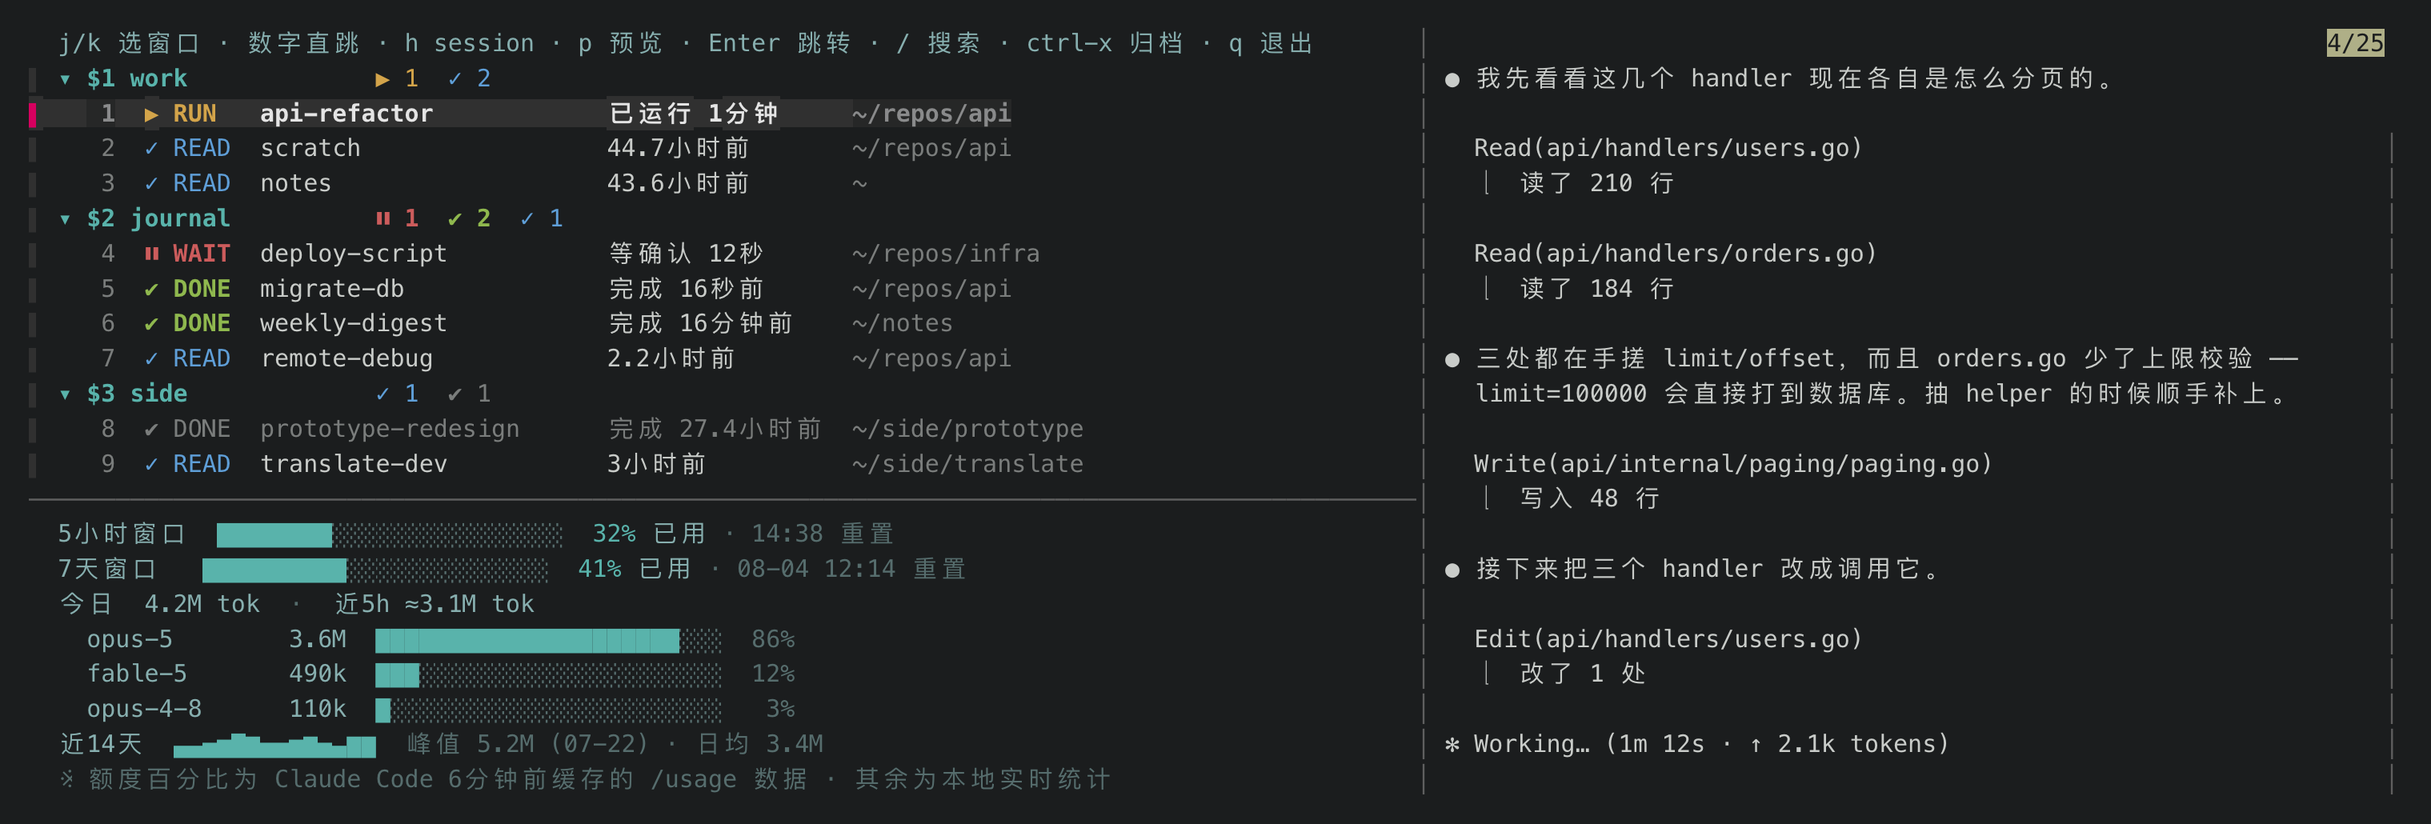
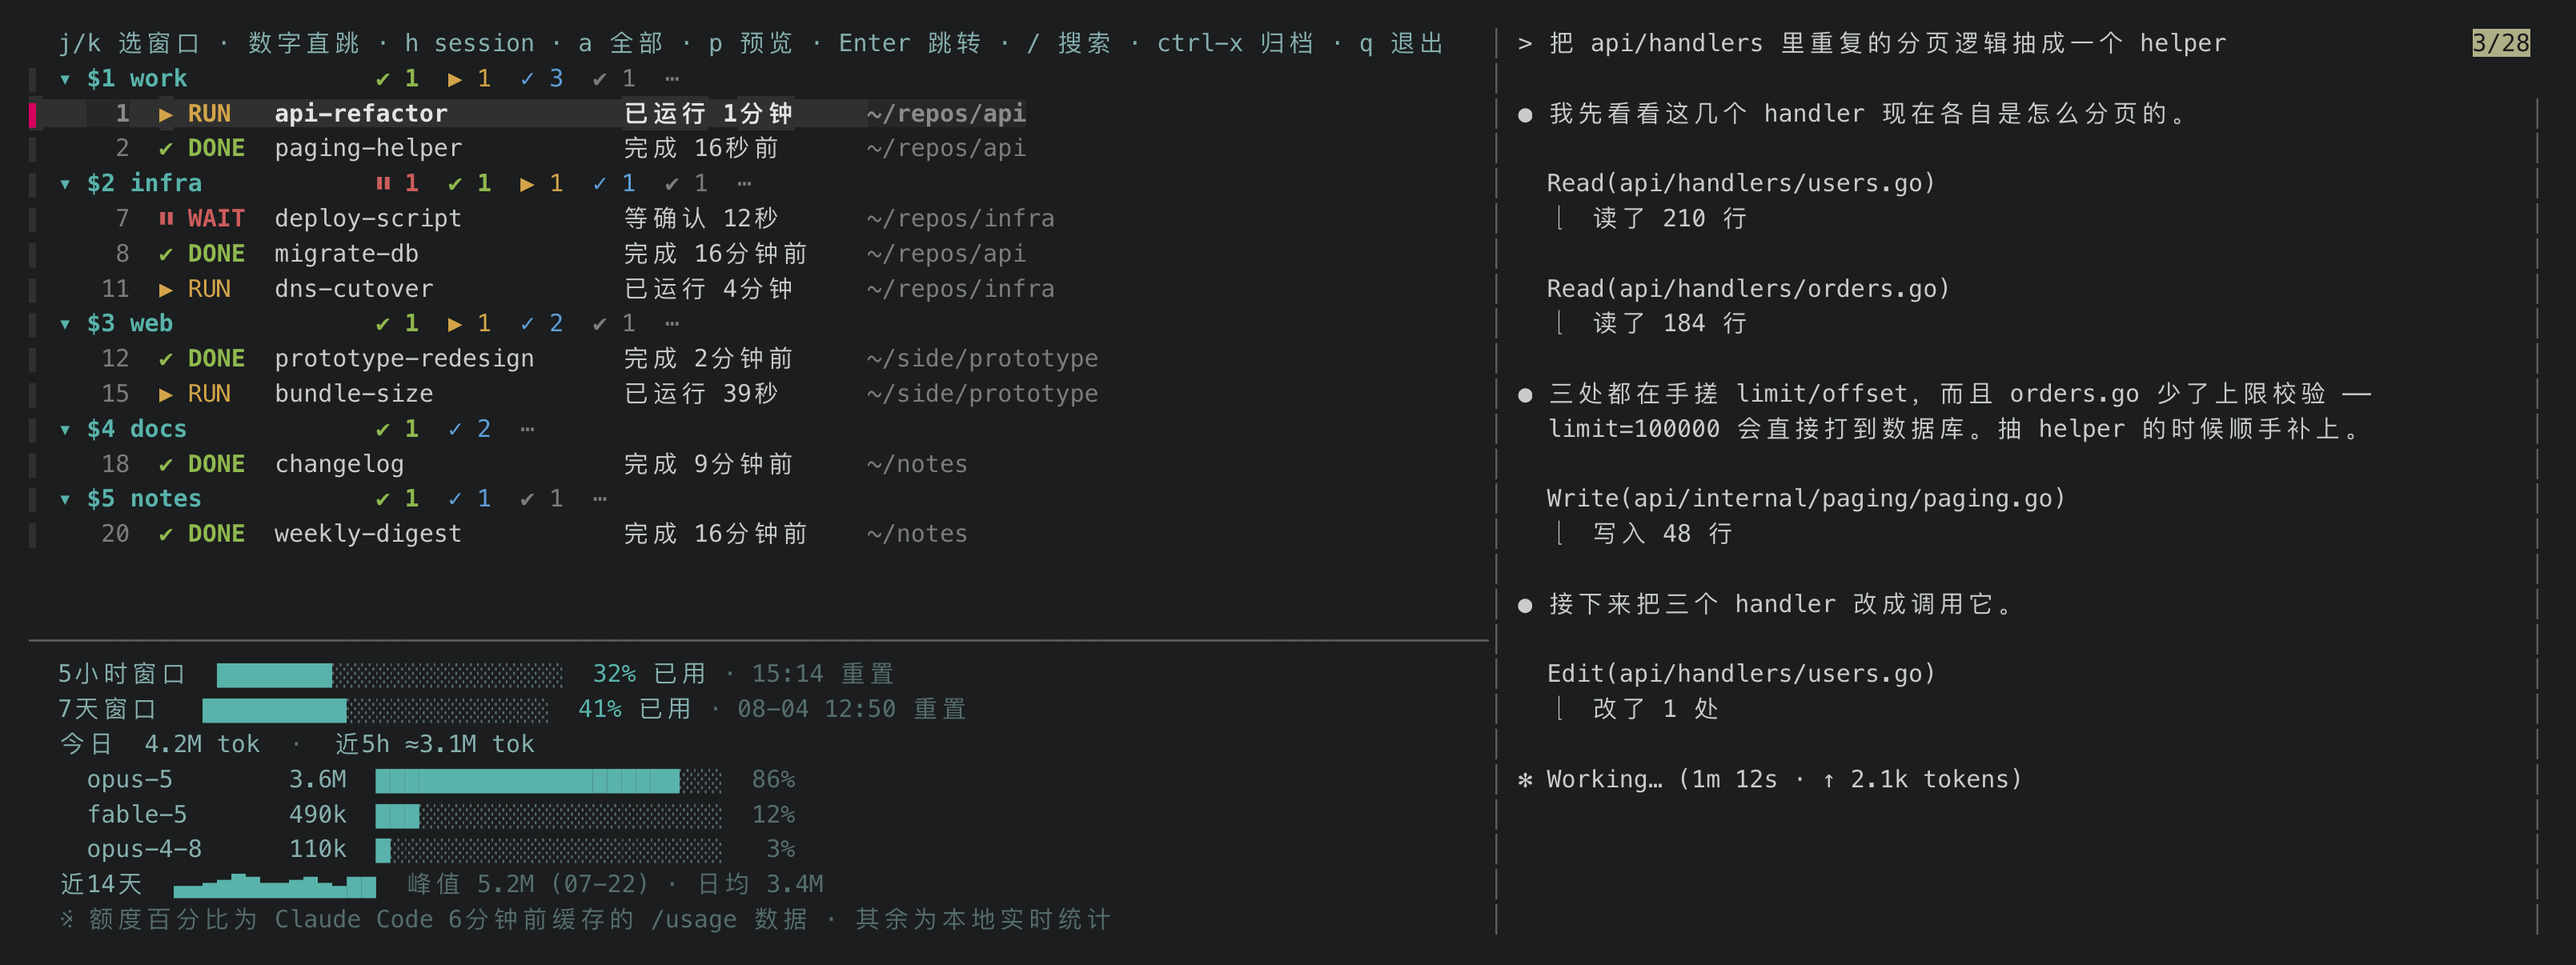
Collapse the quiet panes, so the list scales past a screenful
At 24 tracked panes the picker stops being a list you scan and becomes a list
you search, and the target is 100. But the fix isn't paging or filtering — it's
that most of those rows were never asking for anything. Two ranks already
encode exactly that: READ (you've looked) and aged-out unread DONE (you haven't
looked in hours, so it isn't urgent). Those collapse by default. WAIT, RUN and
unread DONE never do — they're the point of the tool. In the demo fixture, 22
panes render as 9 rows.

The "how many are hidden" indicator needed no new UI: the ✓ and dim ✔ counts
already in each session header ARE the collapsed ones, so they change meaning
for free. The only new pixel is a trailing dim ⋯ meaning "there's more here".
Sessions whose panes all collapse keep their header, so the fleet still reads
as a shape rather than vanishing.

The load-bearing decision is that row numbers are assigned BEFORE the
visibility test. A number that changed when you pressed `a` would be worse than
having no numbers, so a pane keeps its number and the visible ones go sparse
(1, 2, 7, 8, 11…). That ripples into the digit jump, which was counting "the
Nth pane row" — it now matches what you type against a fourth tab-separated
field carrying the number as plain text (fzf shows only field 1, so the field
is free, and it beats parsing ANSI back out of the rendered row). Two follow-on
cases, both tested: "can this prefix be extended" becomes a prefix search over
[…]

diff --git a/DESIGN.md b/DESIGN.md
@@ -131,8 +131,11 @@ header row per session, followed by its panes.
 - **Panes within a session** are ordered by their tmux `window.pane` index, so
   the picker mirrors the order you see in tmux itself — and it lines up with the
   digit-jump numbers.
-- Each pane row leads with a **dim global number** (1, 2, 3… top to bottom
-  across all sessions) — the number you press to jump. Then the state
+- Each pane row leads with a **dim global number**, three columns wide (100+
+  panes is the design target, and a 2-wide field would both drop the leading
+  digit and shift that row's columns), counted top to bottom across all
+  sessions — the number you press to jump. Collapsed rows keep their numbers, so
+  the visible ones can skip. Then the state
   icon+label, the window name ("what is this one doing" is what you scan for
   first), a **status-aware elapsed phrase** in human units (`已运行 / 等确认 /
   完成 X前` — seconds under a minute, then minutes, then hours; `updated_at` is
@@ -142,6 +145,29 @@ header row per session, followed by its panes.
 - **Session headers** carry the same icon+colour counts as the rows below them
   (`⏸ N`, `✔ N`, `▶ N`, `✓ N`, dim `✔` = aged-out), most-important-first, zeros
   omitted.
+
+### Collapsing the quiet ones
+
+A dozen panes fit on a screen. Two dozen don't, and a hundred is the stated
+target — so the list has to stay proportional to *what needs you*, not to how
+many sessions exist. The two ranks that are safe to hide are already defined:
+`READ` (rank 3 — you've looked) and aged-out unread `DONE` (rank 4 — you haven't
+looked in hours, so it isn't urgent). Those collapse by default; WAIT, RUN and
+unread DONE are never hidden, because they're the entire point of the tool.
+`a` toggles, `CLAUDE_TMUX_SHOW_ALL=1` changes the default, and the pane you're
+standing in is never collapsed (visiting a pane is what marks it READ, so it
+usually qualifies — and not finding yourself in the list is disorienting).
+
+No new UI was needed for "how many are hidden": those two header counts *are*
+the hidden ones, so they change meaning for free. The only addition is a
+trailing dim `⋯` saying there's more behind this header. A session whose panes
+are all collapsed keeps its header, so a 24-pane fleet reads as a handful of
+session lines plus the few rows that want you.
+
+**Numbers are assigned before the visibility test**, which is the one
+load-bearing decision here: a number that changed when you pressed `a` would
+be worse than no number at all. The cost is that visible numbers go sparse
+(1, 4, 7, 12…), and that ripples into the digit jump — see below.
 
 ### Two cursor modes, one list
 
@@ -165,6 +191,24 @@ key:
   waits: press the next digit to complete it, or Enter to take the parked row.
   A per-instance `PENDING_FILE` holds the digits so far, cleared by any non-digit
   key and once a jump fires.
+
+  Collapsing made this fiddlier, and it's the only part of the feature with real
+  room to be wrong. Numbers are now sparse, so "the Nth pane row" would land on
+  the wrong pane — the digits you type are matched against a **fourth
+  tab-separated field** carrying the row number as plain text (fzf only displays
+  field 1, so the extra field is free, and it beats parsing ANSI back out of the
+  rendered row). "Can this prefix still be extended" likewise stops being
+  `n*10 <= total` and becomes "does any visible number start with these digits
+  and run longer". One consequence needs handling explicitly: a prefix whose own
+  row is collapsed (`1` while only 10-15 are visible) matches nothing, and
+  dropping it there would make 12 unreachable — so an extendable prefix is held
+  even when it has no row to park on.
+
+- **`a` toggles collapsed/expanded** — writes a per-instance `SHOW_ALL_FILE` that
+  `list-rows.sh` reads via `CLAUDE_TMUX_SHOW_ALL_FILE`, then `reload()`s through
+  the same `tee` that keeps the row cache fresh, exactly like `ctrl-x`. The file
+  is created before the first render, so the initial list and every reload agree
+  on one source of truth.
 - **`p` toggles the preview off entirely** (fzf's `toggle-preview`), handing the
   list the full width — which is the right answer to "the list is too cramped",
   because narrowing the split isn't: it was tried at

diff --git a/README.zh-CN.md b/README.zh-CN.md
@@ -20,12 +20,12 @@
 </p>
 
 <p align="center">
-  <img src="docs/picker.png" alt="picker:三个 session、九个 pane,其中一个卡在权限确认上,右侧是高亮 pane 的实时画面" width="960">
+  <img src="docs/picker.png" alt="picker:五个 session 里追踪着 22 个 pane,收起后只剩 9 个要你处理的,其中一个卡在权限确认上,右侧是高亮 pane 的实时画面" width="960">
 </p>
 
 <p align="center">
-  <sub><code>prefix + g</code>。由真实脚本渲染,数据是演示 fixture ——
-  见 <a href="docs/demo/">docs/demo</a>。</sub>
+  <sub><code>prefix + g</code> —— 追踪着 22 个 pane,收起后只剩 9 个要你处理的。
+  由真实脚本渲染,数据是演示 fixture,见 <a href="docs/demo/">docs/demo</a>。</sub>
 </p>
 
 每一行都有编号 —— 按 `5`,直接落到第 5 行。光标默认停在你当前所在的那个 pane,右侧则是
@@ -75,6 +75,10 @@
 - **它是收件箱,不是仪表盘。** 访问过的 `DONE` 会自动标记为 `READ`,`ctrl-x` 可以把不关心的
   归档掉。这两个标记都会在那个 pane **下次真的做了新事情**时自动失效 —— 所以列表能自己
   保持简短,不需要你去维护。
+- **开到几十上百个也装得下。** 安静的那些 —— `READ`,以及几小时都没去看的未读 `DONE` ——
+  **默认收起**,只留下真的要你处理的。session 表头里本来就有它们的计数,所以那些数字顺理
+  成章变成"这里收了几个",后面跟一个 `⋯` 提示还有东西。按 `a` 全部展开。行号是在收起
+  **之前**就分配好的,所以切换显示时没有任何 pane 的号会变 —— 代价只是可见的号会跳。
 - **session 模式。** `h` 把光标切到 session 标题行,预览随之变成该 session 下每个 pane 的
   一张卡片:任务行、模型、上下文用量条,以及 Claude 最后一次回复的摘录 —— 都是从各自的
   transcript 读的,不是从屏幕上刮的。一眼回答"大家都在干什么"。
@@ -165,6 +169,8 @@ rm -f ~/.claude/tmux-claude-status.json ~/.claude/tmux-claude-restore.json ~/.cl
   Claude pane,预览跟着走。
 - **行号**直接跳过去。`/` 切换成按名字搜索(`Esc` 回到导航模式)。
 - `h` / `←` 进入 session 模式;`l` / `→` 退出。
+- `a` 在"只看要我处理的"(默认)和"全部 pane"之间切换。想每次都直接展开就设
+  `CLAUDE_TMUX_SHOW_ALL=1`。你当前所在的那个 pane 永远不会被收起,即使它是安静的那类。
 - `p` 收起预览,把整个宽度让给列表 —— 追踪十几个 pane、想扫一眼名字和路径的时候值得。再按
   一次把预览叫回来,或者用 `CLAUDE_TMUX_PREVIEW_WIDTH`(默认 `60`,百分比)改默认的分栏比例。
 - `Enter` 跳转 · `ctrl-x` 归档当前高亮的 pane · `q` / `Esc` 关闭。

diff --git a/README.md b/README.md
@@ -21,12 +21,13 @@
 </p>
 
 <p align="center">
-  <img src="docs/picker.png" alt="The picker: three sessions, nine panes, one blocked on a permission prompt, with a live preview of the highlighted pane" width="960">
+  <img src="docs/picker.png" alt="The picker: 22 tracked panes across five sessions, collapsed to the nine that want attention, one of them blocked on a permission prompt, with a live preview of the highlighted pane" width="960">
 </p>
 
 <p align="center">
-  <sub><code>prefix + g</code>. Rendered by the real scripts against a demo
-  fixture — see <a href="docs/demo/">docs/demo</a>.</sub>
+  <sub><code>prefix + g</code> — 22 tracked panes, collapsed to the nine that
+  want you. Rendered by the real scripts against a demo fixture, see
+  <a href="docs/demo/">docs/demo</a>.</sub>
 </p>
 
 Every row is numbered — press `5`, land on pane 5. The cursor starts on the pane
@@ -86,6 +87,12 @@ means you can read the list without relying on it.
 - **An inbox, not a dashboard.** Visiting a `DONE` pane marks it `READ`; `ctrl-x`
   archives ones you don't care about. Both come back on their own the next time
   that pane does something new — so the list stays short without you curating it.
+- **Scales past a screenful.** The quiet panes — `READ`, and unread `DONE` you
+  haven't touched in hours — **collapse by default**, leaving only what's
+  actionable. Each session header already counted them, so those counts double as
+  "how many are hidden here", with a `⋯` to say there's more. `a` expands
+  everything. Row numbers are assigned *before* collapsing, so a pane's number
+  never changes when you toggle — it just means visible numbers can skip.
 - **Session mode.** `h` flips the cursor to session headers, and the preview
   becomes one card per pane in that session: its task line, model, context-window
   meter, and a quote of Claude's last reply — read from each pane's transcript,
@@ -188,6 +195,9 @@ Then remove the four `tmux_status_update.py` hook entries from
 - **A row number** jumps straight there. `/` switches to search-by-name instead
   (`Esc` returns to navigation).
 - `h` / `←` enters session mode; `l` / `→` leaves it.
+- `a` toggles between "only what needs me" (the default) and every tracked pane.
+  Set `CLAUDE_TMUX_SHOW_ALL=1` if you'd rather always start expanded. The pane
+  you're currently in is never collapsed, even when it's a quiet one.
 - `p` collapses the preview so the list gets the full width — worth it once
   you're tracking a dozen-plus panes and want to scan names and paths. Press it
   again to bring the preview back, or set `CLAUDE_TMUX_PREVIEW_WIDTH` (default

diff --git a/docs/demo/README.md b/docs/demo/README.md
@@ -9,19 +9,19 @@
 
 ```bash
 docs/demo/stage-demo.sh                      # 起一个私有 tmux server + 假 $HOME + 数据
-tmux -L shotdemo new-window -d -t work -n shot \
+tmux -L shotdemo -f /dev/null new-window -d -t work -n shot \
   "HOME=/private/tmp/shotroom CLAUDE_TMUX_PREVIEW_WIDTH=42 $PWD/bin/claude-tmux-picker.sh"
 sleep 3
-tmux -L shotdemo capture-pane -p -e -t work:shot > /tmp/picker.ansi
+tmux -L shotdemo -f /dev/null capture-pane -p -e -t work:shot > /tmp/picker.ansi
 docs/demo/render.sh /tmp/picker.ansi docs/picker.png 15
 
 # 状态栏那条(status-badge.sh 输出 tmux 标记而不是 ANSI，先转一道)
-tmux -L shotdemo new-window -d -t work -n bar \
+tmux -L shotdemo -f /dev/null new-window -d -t work -n bar \
   "HOME=/private/tmp/shotroom $PWD/bin/status-badge.sh > /tmp/bar.raw; tail -f /dev/null"
 python3 docs/demo/tmux2ansi.py < /tmp/bar.raw > /tmp/bar.ansi
 docs/demo/render.sh /tmp/bar.ansi docs/statusbar.png 17
 
-tmux -L shotdemo kill-server && rm -rf /private/tmp/shotroom
+tmux -L shotdemo -f /dev/null kill-server && rm -rf /private/tmp/shotroom
 ```
 
 ## 诚实边界
@@ -33,9 +33,10 @@ tmux -L shotdemo kill-server && rm -rf /private/tmp/shotroom
    ~90 列的列表才不截 header,整张图就得 225 列宽,缩到 README 的 960px 之后字就糊了。
    除了分栏比例,图上其它一切都是默认行为。
 
-1. **数据是编的。** 九个 pane、时长、额度百分比、token 数全是 `stage-demo.sh` 里的
-   fixture,不是谁的真实工作状态。选的这九个刚好把四个状态、老化变暗的 DONE、以及一条
-   `⏸ WAIT` 全覆盖一遍。**布局是真的** —— 每一个字符都是 `list-rows.sh` /
+1. **数据是编的。** 22 个 pane、时长、额度百分比、token 数全是 `stage-demo.sh` 里的
+   fixture,不是谁的真实工作状态。这 22 个的配比是刻意排的:四个状态、老化变暗的 DONE、
+   一条 `⏸ WAIT` 全覆盖,而且默认收起之后正好剩 9 行 —— 图要讲的就是「追踪 22 个,
+   只让你看 9 个」。**布局是真的** —— 每一个字符都是 `list-rows.sh` /
    `status-badge.sh` / `fzf` 自己画出来的,所以图上对齐了就是真的对齐了。
    (事实上正是这个流程逼出了两个真 bug:窗口名不截断、以及年龄列正好 15 格时把后面整列
    顶出去一格。)
